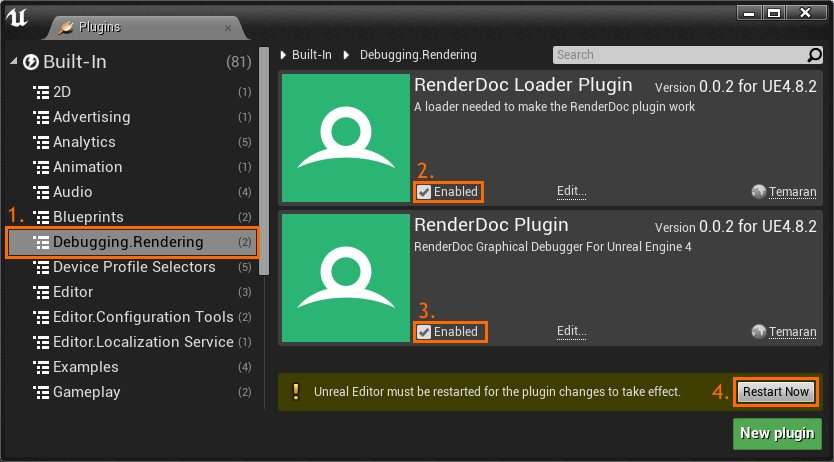
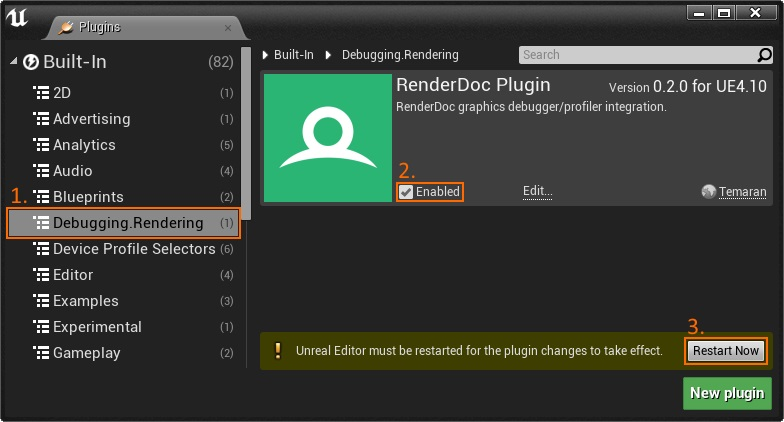
updated documentation

diff --git a/README.md b/README.md
@@ -20,19 +20,21 @@ How to Use
 4. Download and install RenderDoc from http://renderdoc.org/builds  
    The stable build v0.29 of 2016-05-08 is recommended.
 
-5. From within the UE4 Editor, enable both the RenderDocPlugin and the RenderDocLoaderPlugin, as shown below. Note that you will need to restart the UE4 Editor for these changes to take place.  
-   ![](doc/img/howto-plugin_menu.jpg)   ![](doc/img/howto-enable.jpg)
+5. From within the UE4 Editor, enable the RenderDocPlugin as shown below; you will need to restart the UE4 Editor for this change to take place.  
+   ![](doc/img/howto-plugin_menu.jpg) | ![](doc/img/howto-enable.jpg)
 
 6. The first time the plugin is executed, it will attempt to automatically find a RenderDoc installation.  
    If unable to locate one, you will be prompted to locate RenderDoc manually through a dialog window.  
    The plugin will remember the RenderDoc location until it is no longer valid.
 
-7. After the plugin has been loaded successfully, you should have two new buttons in the top-right corner of your Level Editor viewport. The left-most button (see below) will capture the next frame and automatically launch RenderDoc to inspect the frame, while the right-most button exposes some configuration options.  
+7. After the plugin has been loaded successfully, you should have two new buttons in the top-right corner of your Level Editor viewport.  
+The left-most button ![](RenderDocPlugin/Resources/Icon20.png) will capture the next frame and automatically launch RenderDoc to inspect the frame, while the right-most button ![](RenderDocPlugin/Resources/SettingsIcon20.png) exposes some configuration options.  
+Alternatively, the console command `RenderDoc.CaptureFrame` can also be used for capturing a frame. This is particularly useful when in PIE (Play-in-Editor) mode or when in Game mode, as the Level Editor viewport UI is omitted during gameplay.  
    ![](doc/img/howto-capture.jpg)  
-Alternatively, the console command `RenderDoc.CaptureFrame` can also be used for capturing a frame. This is particularly useful when in PIE (Play-in-Editor) mode or when in Game mode, as the Level Editor viewport UI is omitted during gameplay.
    > **NOTE:** if RenderDoc has already been launched and remains open, newly captured frames will not be automatically opened for inspection, but will be enqueued instead; the user must then select in the RenderDoc application the frame capture intended for inspection.  
 
-8. The configuration button exposes a few settings that can be tweaked prior to capturing the frame:
+8. The configuration button ![](RenderDocPlugin/Resources/SettingsIcon20.png) exposes a few settings that can be tweaked prior to capturing the frame:  
+![](doc/img/howto-settings.jpg)
    * _Capture all activity_: by default, the plugin only intercepts the rendering activity of the viewport currently active; by checking this setting, all rendering activity of all Editor windows will be captured (such as the Editor UI itself and Material Editor/Thumbnail previews).
    * _Capture callstack_: captures the call stack when each rendering API call was issued.
    * _Capture all resources_: include all rendering resources of the rendering context in the capture, even those that have not been used/referenced during the frame capture.
@@ -61,17 +63,13 @@ The plugin will then keep track of this RenderDoc location by adding an entry to
   ````
   This method can be very useful if you wish to deploy RenderDoc into repositories that are shared by entire teams, as the RenderDoc path can be relative to some Game or Engine directory.
 
-* You may force plugin compilation by adding the following to the `.uplugin` files:
+* You may force plugin compilation by setting the following in the `RenderDocPlugin.uplugin` file:
   ```json
   "EnabledByDefault" : true,
   ```
   Note that this will not only force-build the plugin, but will also keep the plugin activated at all times.  
   You can then selectively disable the plugin by inserting the following into your `<Game>.uproject` file:
   ```json
-  {
-    "Name": "RenderDocLoaderPlugin",
-    "Enabled": false
-  },
   {
     "Name": "RenderDocPlugin",
     "Enabled": false
